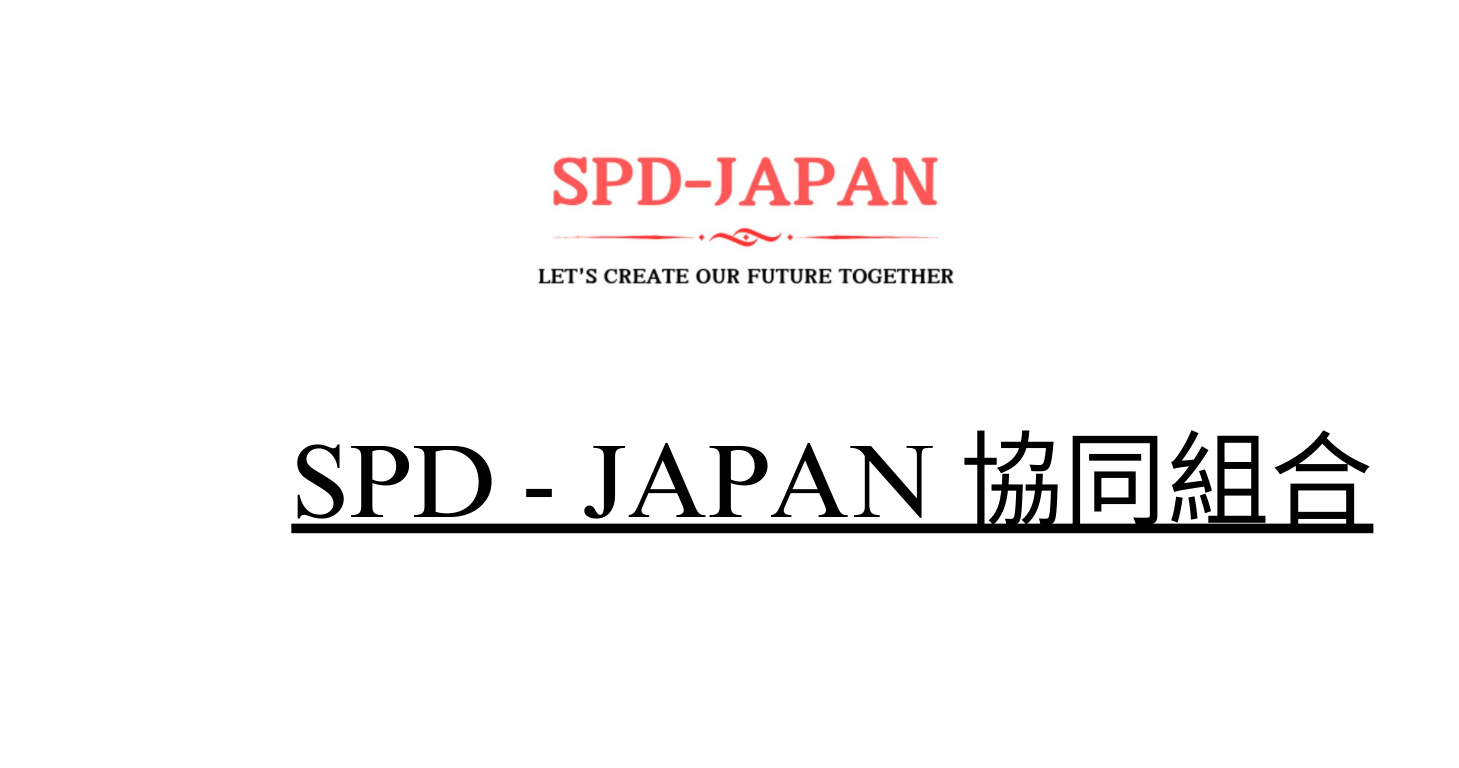
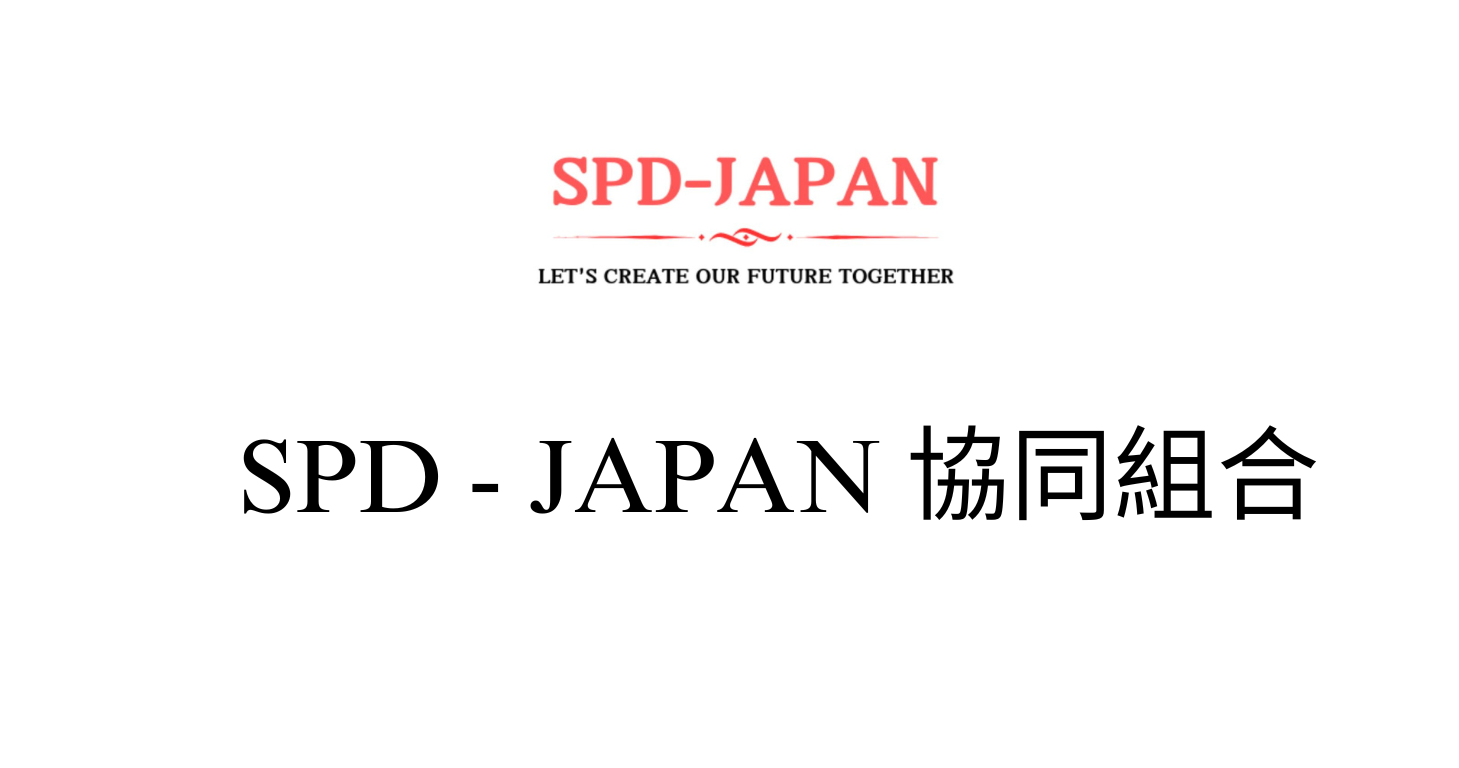
upload

Changed region(s): [[0.1542, 0.5625, 0.9561, 0.7188]]

diff --git a/index.htm b/index.htm
@@ -360,8 +360,8 @@
       <!-- Centered text -->
      
           <div style="text-align: left; position: absolute; top: 50%; left: 50%; transform: translate(-50%, -50%); max-width: 100%; border-radius: 10px;">
-            <span style="color: greenyellow; text-shadow: 3px 3px 6px #000000; font-size: 2.5vw !important; font-family: 'Segoe UI', sans-serif; font-weight: bold;">外国籍人材を雇用する企業様が急増する理由とは？</span><br>
-            <span style="color: greenyellow; font-size: 1.5vw; font-family: 'Segoe UI', sans-serif;">
+            <span style="color: black; font-size: 2.5vw !important; font-family: 'Segoe UI', sans-serif; font-weight: bold;">外国籍人材を雇用する企業様が急増する理由とは？</span><br>
+            <span style="color: black; font-family: 'Segoe UI', sans-serif;">
                 日本は少子高齢化社会が進み、人手不足という深刻な問題に直面しています。<br>
                 人手不足を解消する方法として最も注目されているのが『外国籍人材の活用』です。<br>
                 働き手が欲しい企業様と、日本で働きたい外国籍人材の『Win-Winの関係』が成立しているからこそ、外国籍人材の雇用増加に繋がっているのです。<br>
